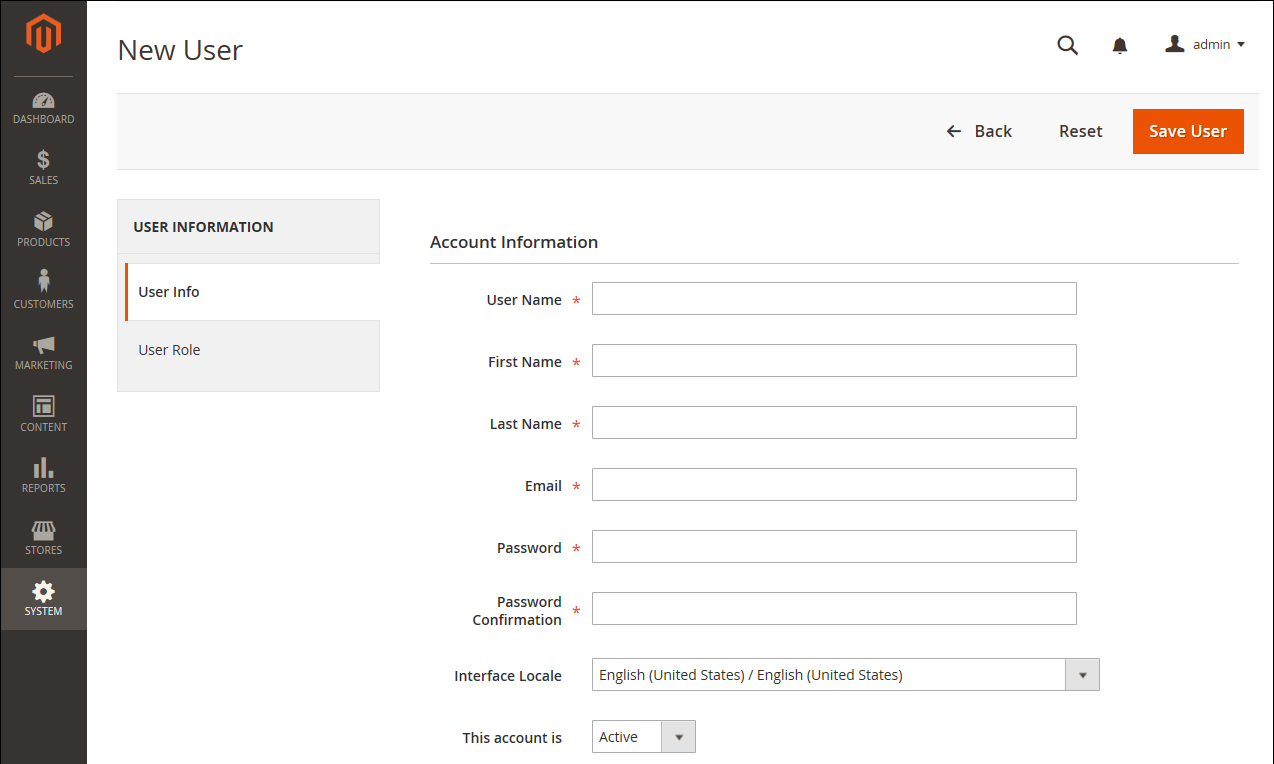
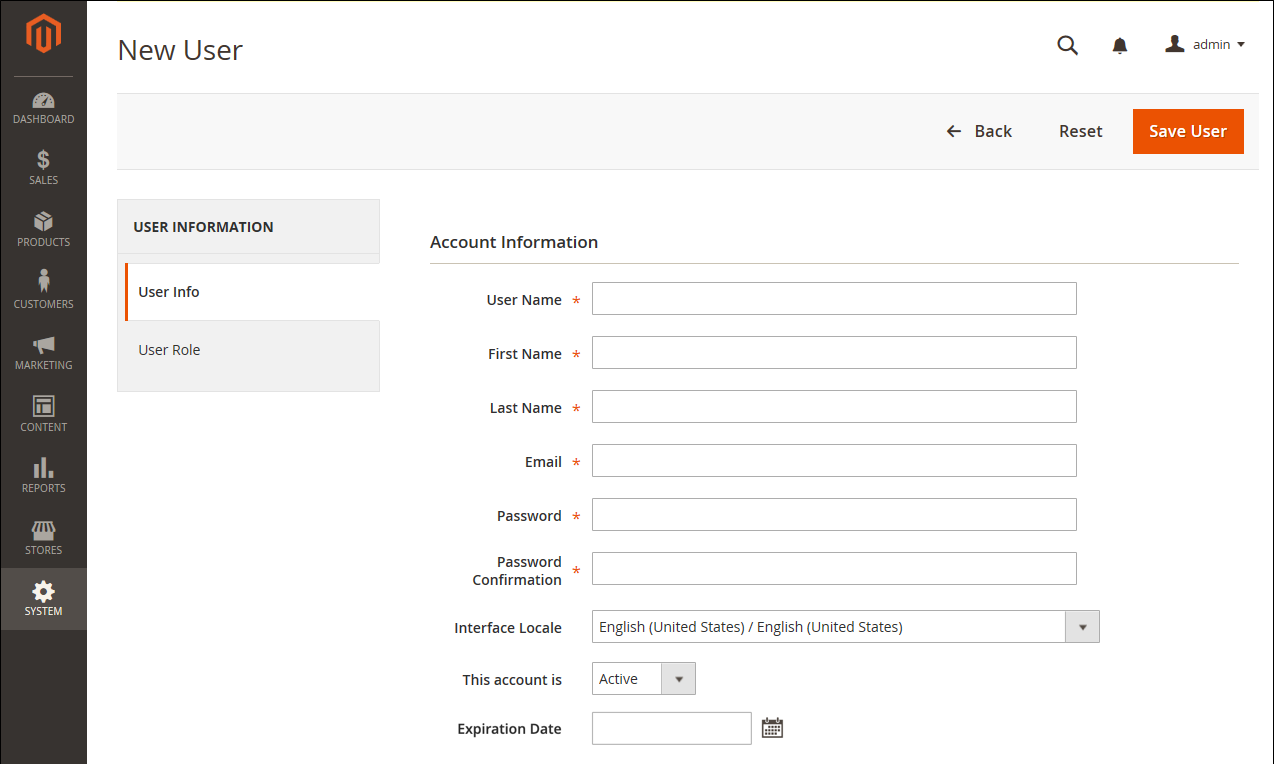
Temp Admin Updates
Updated add new user screen, updated the steps for creating a new user, and added links for crossreference.

diff --git a/src/system/permissions-users-all.md b/src/system/permissions-users-all.md
@@ -2,9 +2,11 @@
 title: Adding Users
 ---
 
-When your store is first installed, a default Admin account is created with login credentials that give you full administrative access. As a best practice, one of the first things you should do is to create another user account with full Administrator access. That way, you can use one account for your everyday Administrative activities, and reserve the other as a “Super Admin” account in case you forget your regular credentials or they somehow become unusable.
+When your store is first installed, a default Admin account is created with login credentials that gives you full administrative access. As a best practice, you should create another user account with full Administrator access. That way, you can use one account for your everyday Administrative activities and reserve the other as a "Super Admin" account. This can be helpful if you forget your regular credentials, or they somehow become unusable.
 
-If there are others on your team, or service providers who need access, you can create a separate user account for each, and assign restricted access based on their business need to know. To limit the websites or stores that users can access when they log in to the Admin, you must first create a role with limited scope and only the necessary resources selected. Then, you can assign the role to a specific user account. Admin users who are assigned to a restricted role can see and change data only for websites or stores that are associated with the role. They cannot make changes to any global settings or data.
+If there are others on your team or service providers who need access, you can create a separate user account for each and assign restricted access based on their business need to know. To limit the websites or stores that users can access when they log in to the Admin, you must first [create a role]({% link system/permissions-user-roles.md %}) with limited scope and only the necessary resources selected. Then, you can assign the role to a specific user account. Admin users who are assigned to a restricted role can see and change data only for websites or stores that are associated with the role, but cannot make changes to any global settings or data.
+
+For users or roles that are temporary, you can also set an expiration date for the user account.
 
 <!--{% if "Default.CE Only,Default.EE Screenshot" contains site.edition %}-->
 ![User types for your Magento Admin]({% link images/images/merchant-admin-users.png %}){: .zoom}
@@ -14,11 +16,13 @@ If there are others on your team, or service providers who need access, you can 
 <!--{% endif %}-->
 _Example Admin Users_
 
-## Step 1: Create a new user
+## Create a new user
 
 1. On the _Admin_ sidebar go to **System** > _Permissions_ > **All Users**.
 
 1. In the upper-right corner, click <span class="btn">Add New User</span>.
+
+    To edit an existing user, click a user name in the grid. You can modify the _User Info_ and _User Role_ sections as needed.
 
 1. In the _Account Information_ section, do the following:
 
@@ -29,39 +33,47 @@ _Example Admin Users_
 
         The User Name should be easy to remember. It is not case-sensitive. For example, if your user name is `John`, you can also log in as `john`.
 
-    - Complete the following information:
+    - Complete the following user information:
 
         - **First Name**
         - **Last Name**
         - **Email address**
 
-        This email address must be different from the one that is associated with your original Admin account.
+        Each user account requires a unique email address.
 
-    - Assign a **Password** to the account.
+    - Enter a **Password** for the account.
 
         {:.bs-callout-info}
-        An Admin password must be seven or more characters long, and include both letters and numbers. For additional password options, see [Configuring Admin Security]({% link stores/security-admin.md %}).
+        An Admin password must be seven or more characters long and include both letters and numbers. For additional password options, see [Configuring Admin Security]({% link stores/security-admin.md %}).
 
-    - In the **Password Confirmation** box, repeat the password to make sure it was entered correctly.
+    - For **Password Confirmation**, re-enter the password to make sure it was entered correctly.
 
     - If your store has multiple languages, set **Interface Locale** to the language to be used for the Admin interface.
 
 1. Set **This Account is** to `Active`.
 
-1. Under _Current User Identity Verification_, enter **Your Password**.
+1. Click the calendar icon to set the **Expiration Date** for the user account.
 
-    ![Enter your password for verification]({% link images/images/permissions-user-current-user-identity.png %})
-    _Current User Identity Verification_
+    Defining an expiration date is helpful when a user or role is temporary. After the defined expiration date, the user account status changes to `Inactive` and can be updated.
 
-## Step 2: Define the role
+1. Under _Current User Identity Verification_, enter your user account password.
 
-1. In the left panel, choose **User Role**.
+    {:.bs-callout .bs-callout-warning}
+    With the _Account Information_ section complete, you can save the user. The new user will show in the _Users_ grid, but the user name cannot log in until a role is assigned.
 
-   The grid lists all the existing roles. For a new store, _Administrators_ is the only role available. If you need another role, you can [define a new role]({% link system/permissions-user-roles.md %}) and then edit the user account to assign it.
+## Assign a user role
 
-1. In the _Assigned_ column, select the **Administrators** option.
+1. In the left panel, click **User Role**.
+
+   The grid lists all the existing user roles. For a new store, _Administrators_ is the only role available.
+
+1. In the _Assigned_ column, select a user role.
+
+    You can [view existing or define additional user roles]({% link system/permissions-user-roles.md %}). After a role is defined, you must edit the user account to assign the new role.
 
 1. Click <span class="btn">Save User</span>.
 
     ![Magento Admin - add new user role]({% link images/images/permissions-user-roles.png %}){: .zoom}
     _Add New User Role_
+
+The _Users_ grid opens and lists all users.

diff --git a/src/stores/admin-account.md b/src/stores/admin-account.md
@@ -3,7 +3,11 @@ title: Your Admin Account
 group: getting-started
 ---
 
-Your Admin account was initially set up during the installation, and might contain initial placeholder information or sample data information. You can personalize your user name and password and update your first name, last name, and email address at any time. See [Permissions]({% link system/permissions.md %}) for information about Admin accounts and roles.
+Your Admin account was initially set up during the installation, and might contain initial placeholder information or sample data ißnformation. You can personalize your user name and password and update your first name, last name, and email address at any time.
+
+See [Permissions]({% link system/permissions.md %}) for information about Admin and user roles.
+
+See [Adding Users]({% link system/permissions-users-all.md %}) for information on adding or editing users.
 
 ## Edit Account Information
 
